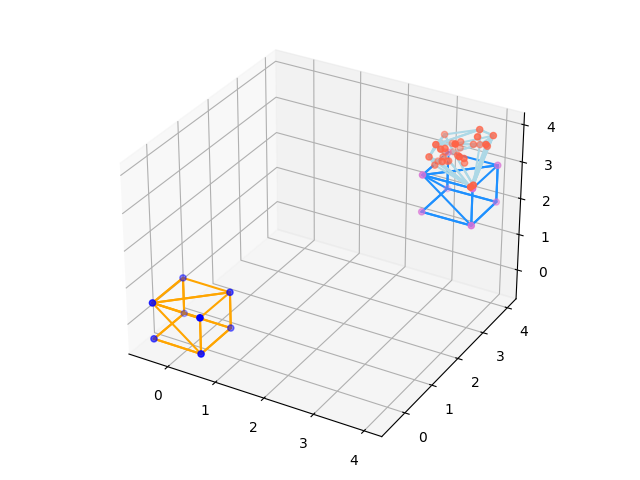
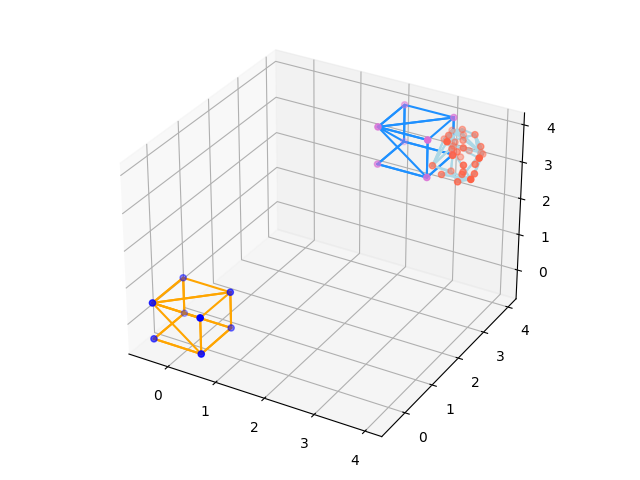
plot via plotly

diff --git a/BilevelOptimizer.py b/BilevelOptimizer.py
@@ -30,7 +30,7 @@ class BilevelOptimizer(object):
             if self.line_searcher.grad_norm() < tolg:
                 print("Converged!")
                 break
-            
+
     def plot_obj(self):
         fig = plt.figure()
         plt.plot(self.objectives, marker='d')
@@ -58,3 +58,62 @@ class BilevelOptimizer(object):
             ax.plot3D(hull2.points[simplex2, 0], hull2.points[simplex2, 1], hull2.points[simplex2, 2], 'lightblue')
         fig.show()
         fig.savefig('Convex_hulls.png')
+
+    def plot_high_quality(self):
+        import plotly.graph_objects as go
+        hull, hull2 = self.ch_settings.get_hulls()
+        theta = self.ch_settings.theta.detach().numpy()
+        fig = go.Figure()
+        points1 = hull.points
+        fig.add_trace(go.Mesh3d(x=points1[:, 0],
+                                y=points1[:, 1],
+                                z=points1[:, 2],
+                                color='lightpink',
+                                opacity=0.5,
+                                legendgroup='Convex Hull1',
+                                name='Convex Hull1',
+                                alphahull=0,
+                                showlegend=True))
+        points2 = hull2.points
+        simplex2 = hull2.simplices
+        for i in range(simplex2.shape[0]):
+            if i == 0:
+                fig.add_trace(go.Mesh3d(x=points2[simplex2[i], 0],
+                                        y=points2[simplex2[i], 1],
+                                        z=points2[simplex2[i], 2],
+                                        color='tomato',
+                                        opacity=0.5,
+                                        legendgroup='Convex Hull2',
+                                        name='Convex Hull2',
+                                        showlegend=True))
+            else:
+                fig.add_trace(go.Mesh3d(x=points2[simplex2[i], 0],
+                                        y=points2[simplex2[i], 1],
+                                        z=points2[simplex2[i], 2],
+                                        color='tomato',
+                                        opacity=0.5,
+                                        legendgroup='Convex Hull2',
+                                        name='Convex Hull2',
+                                        showlegend=False))
+
+        points1 += theta
+        fig.add_trace(go.Mesh3d(x=points1[:, 0],
+                                y=points1[:, 1],
+                                z=points1[:, 2],
+                                color='dodgerblue',
+                                opacity=0.5,
+                                legendgroup='Convex Hull1',
+                                name='Convex Hull1',
+                                alphahull=0,
+                                showlegend=True))
+
+        fig.update_layout(scene_camera=dict(eye=dict(x=1.2, y=-1.6, z=1.0)),
+                          margin=dict(t=0, r=10, l=10, b=10),
+                          legend=dict(x=0.6, y=1),
+                          scene=dict(xaxis=dict(range=[0, 4]),
+                                     yaxis=dict(range=[0, 4]),
+                                     zaxis=dict(range=[0, 4])),
+                          scene_aspectmode='cube'
+                          )
+
+        fig.show(renderer='browser')

diff --git a/plotting.py b/plotting.py
@@ -47,16 +47,6 @@ def plotting(points1, points2):
                                     name='Convex Hull2',
                                     showlegend=False))
 
-    # fig.add_trace(go.Scatter3d(x=optimal_dots[:, 0],
-    #                            y=optimal_dots[:, 1],
-    #                            z=optimal_dots[:, 2],
-    #                            marker=dict(size=4,
-    #                                        color='tomato',
-    #                                        symbol='diamond'),
-    #                            line=dict(color='tomato',
-    #                                      width=4),
-    #                            legendgroup="Smallest Distance",
-    #                            name="Smallest Distance"))
     fig.update_layout(scene_camera=dict(eye=dict(x=1.2, y=-1.6, z=1.0)),
                       margin=dict(t=0, r=10, l=10, b=10),
                       legend=dict(x=0.6, y=1),

diff --git a/main.py b/main.py
@@ -35,4 +35,4 @@ if __name__ == "__main__":
     bioptimizer.optimize(niters=10000)
     bioptimizer.plot_obj()
     bioptimizer.plot_convex_hulls()
-
+    bioptimizer.plot_high_quality()
